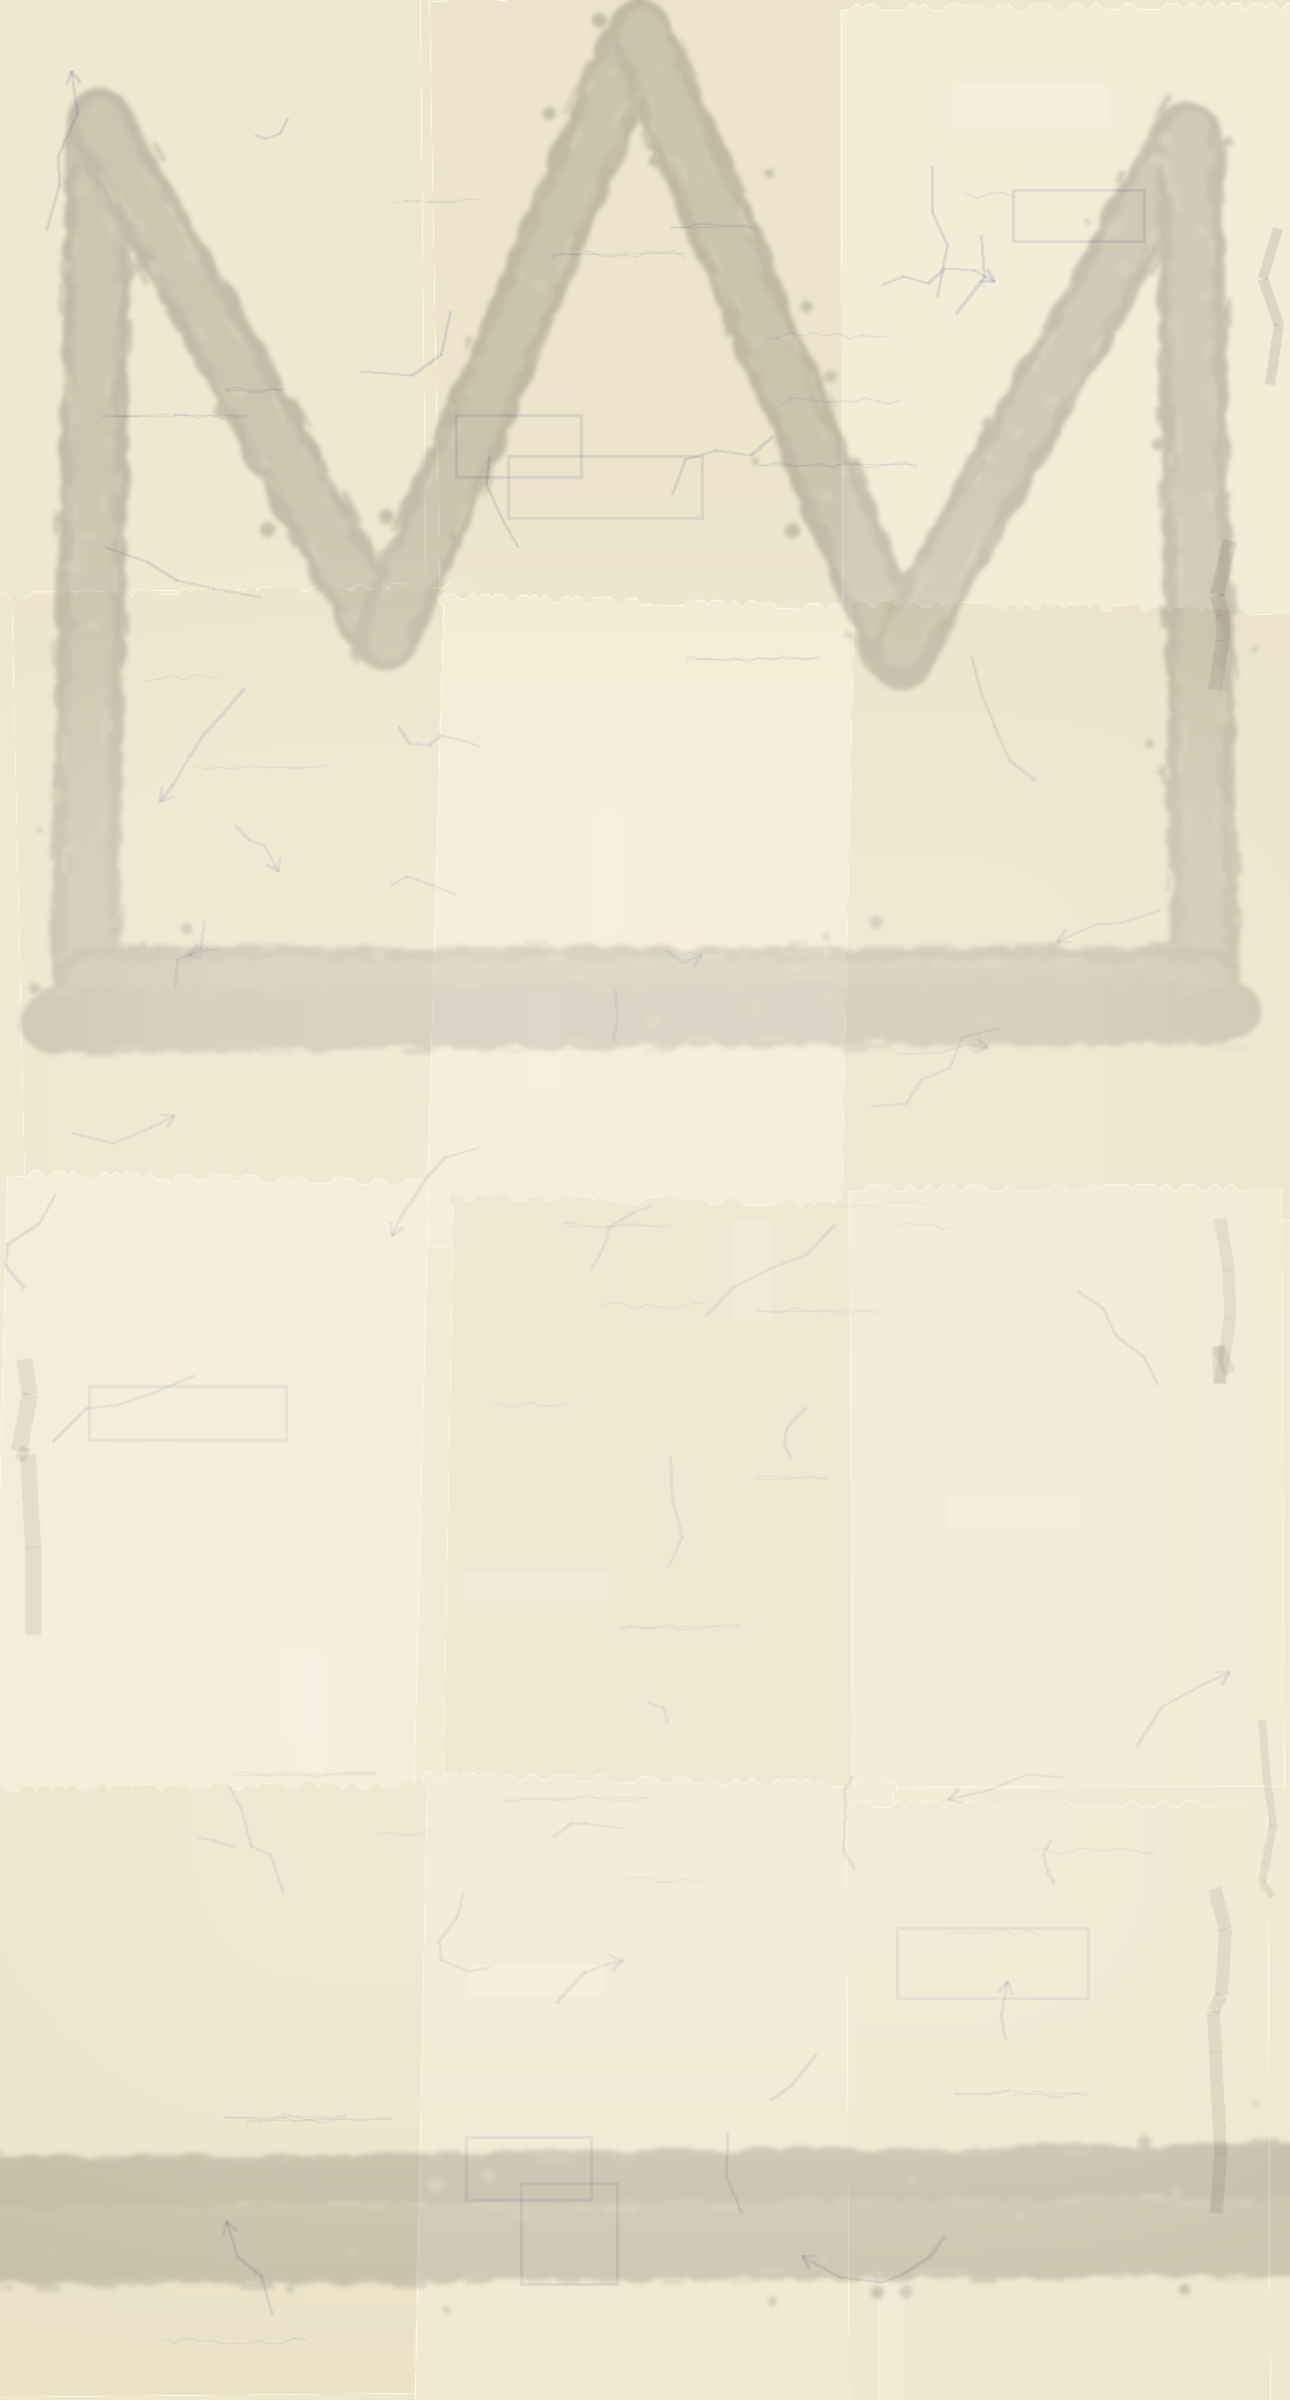
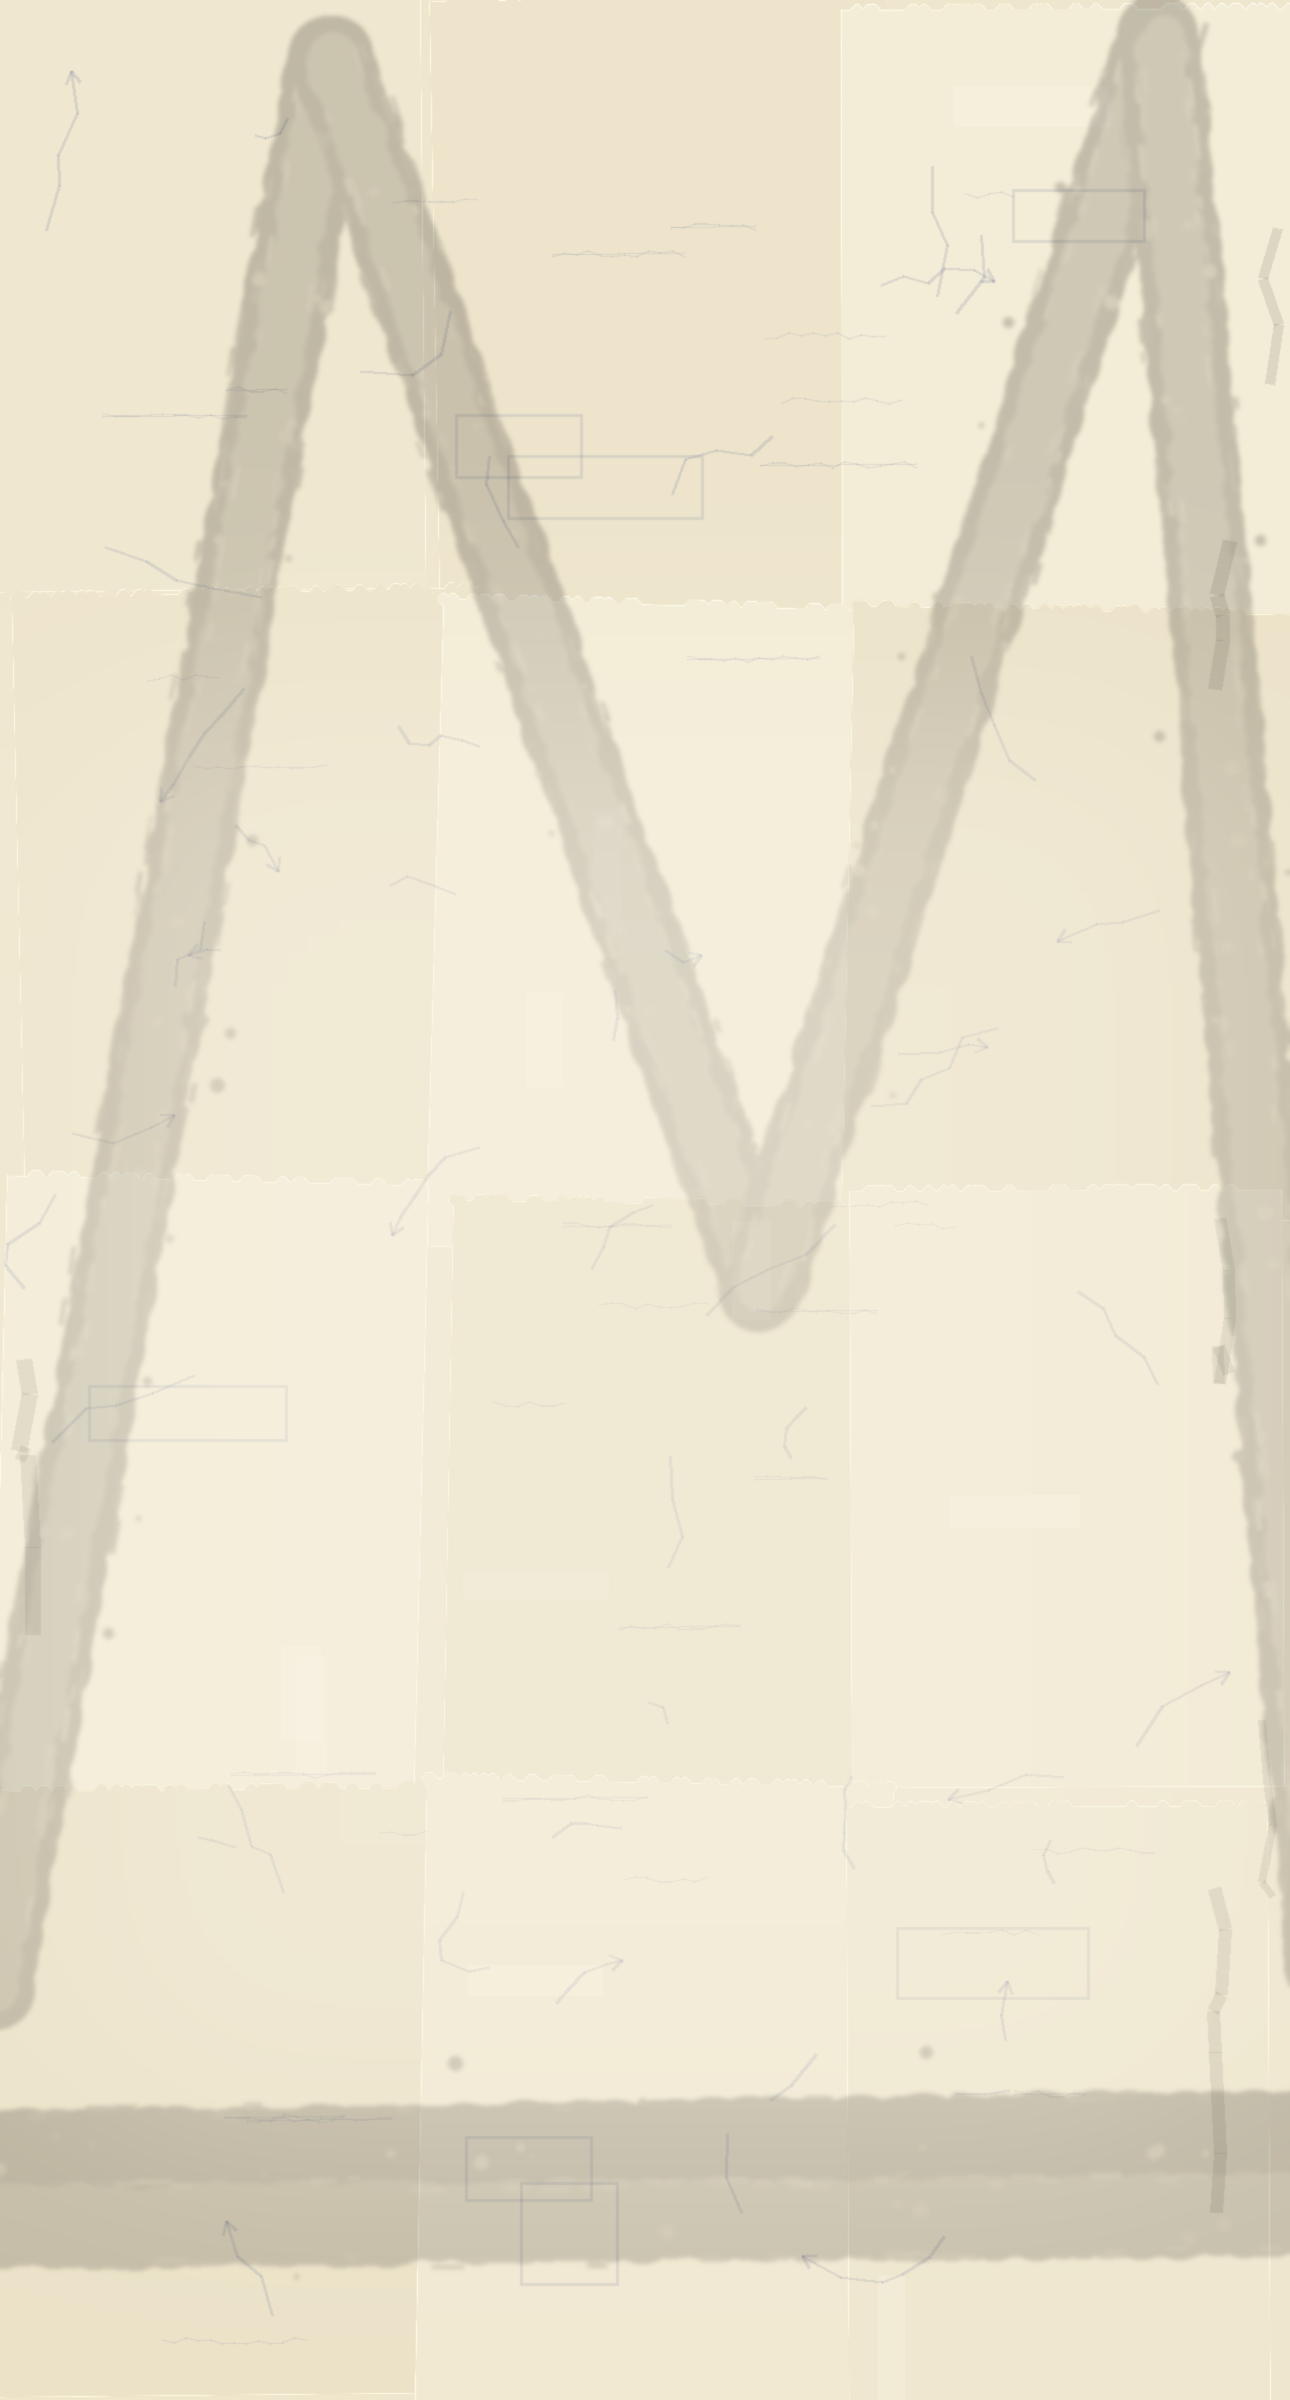
fin: фон — кадрированная корона (два зубца во всю высоту, срез по краям, брус внизу); фикс iOS — фон на body отдельными свойствами вместо сокращённой записи

diff --git a/akfin/public/fin.html b/akfin/public/fin.html
@@ -21,10 +21,10 @@
 }
 *{box-sizing:border-box;margin:0;padding:0;-webkit-tap-highlight-color:transparent}
 html,body{background:var(--bg);color:var(--ink);font-family:-apple-system,BlinkMacSystemFont,"SF Pro Text",Segoe UI,Roboto,sans-serif;-webkit-font-smoothing:antialiased}
-body{min-height:100vh}
-/* фон-«холст»: бумажный коллаж с короной (fin-bg.png, своя графика);
-   фиксированный слой — на iOS background-attachment:fixed дёргается */
-body::before{content:"";position:fixed;inset:0;z-index:-1;background:#efe6ce url("/fin-bg.png") center top/cover no-repeat}
+/* фон-«холст»: бумажный коллаж с короной (fin-bg.png, своя графика).
+   Свойства порознь и прямо на body: сокращённую запись «center top/cover»
+   iOS Safari отбрасывал целиком — фон оставался бежевой заливкой */
+body{min-height:100vh;background-color:#efe6ce;background-image:url("/fin-bg.png");background-repeat:no-repeat;background-position:center top;background-size:cover}
 .wrap{max-width:520px;margin:0 auto;padding:0 18px 48px}
 /* форма опущена ближе к середине экрана (просьба Андрея) */
 /* форма сознательно опущена пониже — так ближе тянуться пальцем (Андрей, 19.08);

diff --git a/public/fin.html b/public/fin.html
@@ -21,10 +21,10 @@
 }
 *{box-sizing:border-box;margin:0;padding:0;-webkit-tap-highlight-color:transparent}
 html,body{background:var(--bg);color:var(--ink);font-family:-apple-system,BlinkMacSystemFont,"SF Pro Text",Segoe UI,Roboto,sans-serif;-webkit-font-smoothing:antialiased}
-body{min-height:100vh}
-/* фон-«холст»: бумажный коллаж с короной (fin-bg.png, своя графика);
-   фиксированный слой — на iOS background-attachment:fixed дёргается */
-body::before{content:"";position:fixed;inset:0;z-index:-1;background:#efe6ce url("/fin-bg.png") center top/cover no-repeat}
+/* фон-«холст»: бумажный коллаж с короной (fin-bg.png, своя графика).
+   Свойства порознь и прямо на body: сокращённую запись «center top/cover»
+   iOS Safari отбрасывал целиком — фон оставался бежевой заливкой */
+body{min-height:100vh;background-color:#efe6ce;background-image:url("/fin-bg.png");background-repeat:no-repeat;background-position:center top;background-size:cover}
 .wrap{max-width:520px;margin:0 auto;padding:0 18px 48px}
 /* форма опущена ближе к середине экрана (просьба Андрея) */
 /* форма сознательно опущена пониже — так ближе тянуться пальцем (Андрей, 19.08);
